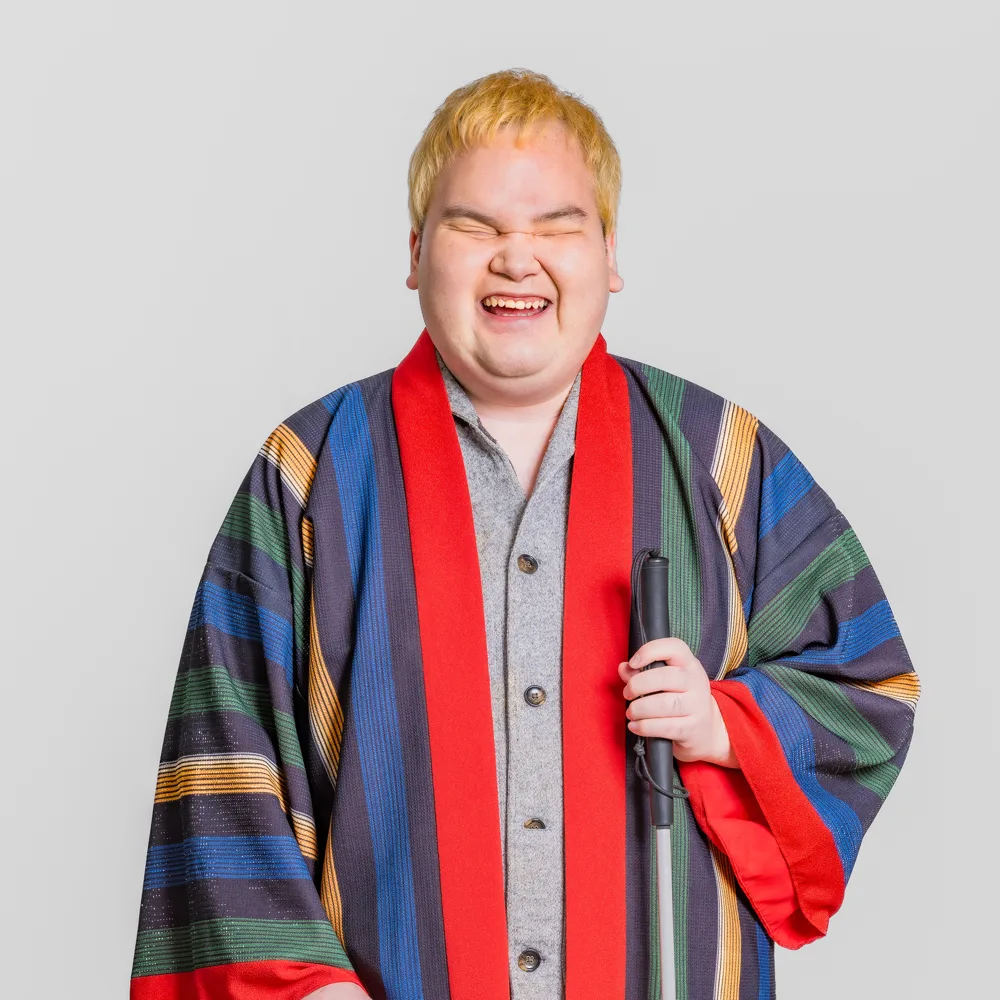
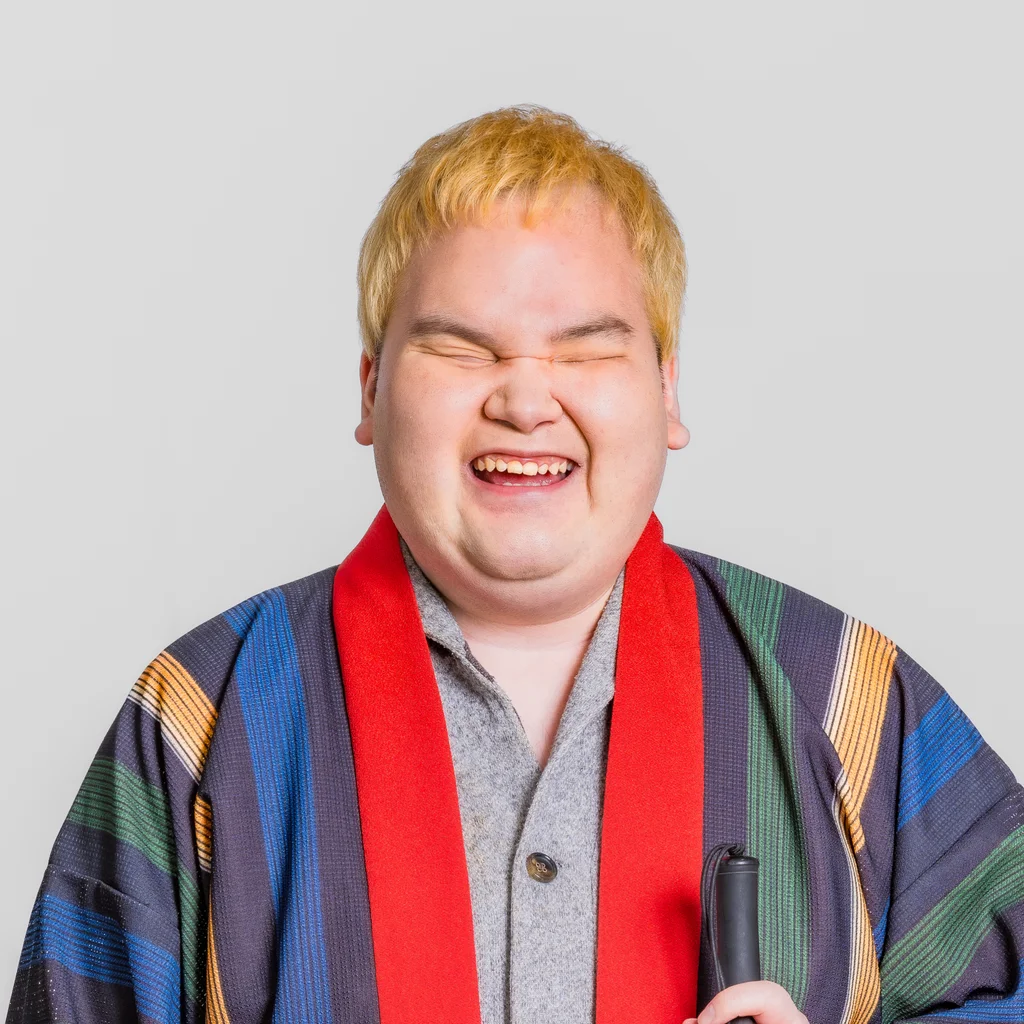
fix: 契約前2社のロゴを取り下げ、北村氏・張氏の写真を差し替え
- ブロンズスポンサーから株式会社コンセント・カラビナテクノロジー株式会社を取り下げ（契約前のため）
  - 2026用に追加していた logo-sponsor-concent.svg を削除（カラビナのロゴは2025で使用中のため残置）
- 張 彦芳 氏の写真を追加し「準備中」表示を解消
- 北村 直也 氏の写真を新しい提供画像に差し替え
- 画像はいずれも1024pxのまま品質85のWebPに再エンコード

Claude-Session: https://claude.ai/code/session_01WavievcE3oQooruW5pGQgn

diff --git a/src/routes/+page.svelte b/src/routes/+page.svelte
@@ -15,6 +15,7 @@
 
 	import pictIzuizu from '$lib/img/pict-speaker-izuizu.webp';
 	import pictKitamura from '$lib/img/pict-speaker-kitamura.webp';
+	import pictZhang from '$lib/img/pict-speaker-zhang.webp';
 
 	import pictStaff01 from '$lib/img/pict-staff-cloud10designs.jpg';
 	import pictStaff02 from '$lib/img/pict-staff-posi0202.webp';
@@ -124,7 +125,13 @@
 				</Speaker>
 			</GridItem>
 			<GridItem>
-				<Speaker id="zhang" name="張 彦芳（ジャン エンファン）" level={3}>
+				<Speaker
+					id="zhang"
+					name="張 彦芳（ジャン エンファン）"
+					img={pictZhang}
+					alt="写真: 張 彦芳"
+					level={3}
+				>
 					<p>九州大学大学院芸術工学研究院 准教授</p>
 					<p>
 						専門はユニバーサルデザイン、ソサエタルデザイン。企業でのデザイン実務を経て、現在は「No
@@ -245,20 +252,6 @@
 					href="https://www.sixtant.co.jp/"
 					name="株式会社シックスタント"
 					img="/img/logo-sponsor-sixtant.svg"
-				/>
-			</ClusterItem>
-			<ClusterItem>
-				<Sponsor
-					href="https://www.concentinc.jp/"
-					name="株式会社コンセント"
-					img="/img/logo-sponsor-concent.svg"
-				/>
-			</ClusterItem>
-			<ClusterItem>
-				<Sponsor
-					href="https://karabiner.tech/"
-					name="カラビナテクノロジー株式会社"
-					img="/img/logo-sponsor-karabiner.svg"
 				/>
 			</ClusterItem>
 		</ClusterContainer>
